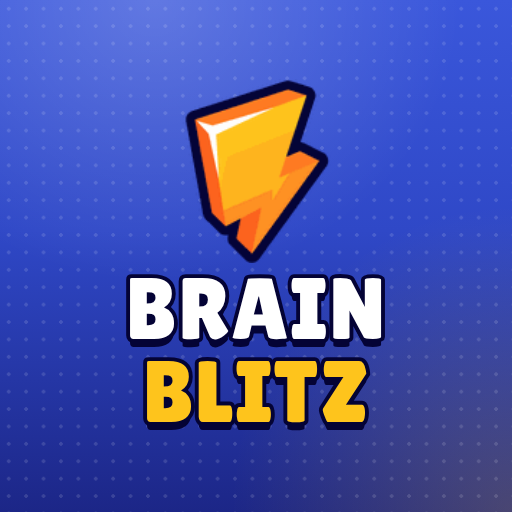
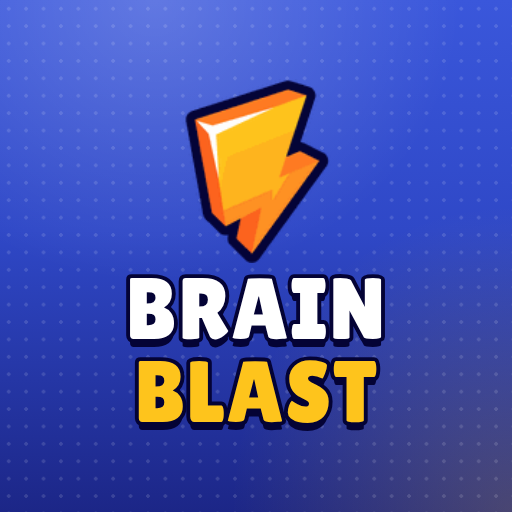
Rename the game to Brain Blast
Every player-facing name changes: the page title, the home logo, the
manifest name, the store icon and key art, the build zip and the CSV
export. "Mixed Blitz" becomes "Mixed Blast" and the results lines say
"Blast" too.

Kept on purpose:
- Save and settings keys (brainblitz.*) and the daily seed, so players
  keep their best scores and streaks, and today's daily stays the same.
- The manifest id, so an installed copy updates in place.
- The Block Blitz mode name, which reads well next to the new title and
  avoids sounding like the "Block Blast!" app.

Claude-Session: https://claude.ai/code/session_01RVk95fhvdWqoXzGU91aHdM

Changed region(s): [[0.25, 0.6875, 0.75, 0.8438]]

diff --git a/index.html b/index.html
@@ -3,9 +3,9 @@
 <head>
 <meta charset="UTF-8">
 <meta name="viewport" content="width=device-width, initial-scale=1.0, maximum-scale=1.0, user-scalable=no, viewport-fit=cover">
-<meta name="description" content="Brain Blitz — a fast-paced HTML5 trivia game across 10 categories.">
+<meta name="description" content="Brain Blast — a fast-paced HTML5 trivia game across 10 categories.">
 <meta name="theme-color" content="#2F48C7">
-<title>Brain Blitz</title>
+<title>Brain Blast</title>
 
 <!-- Added to a home screen, the launcher needs real artwork or the OS falls
      back to the first letter of the title. iOS reads apple-touch-icon and
@@ -15,8 +15,8 @@
 <link rel="icon" href="icons/favicon-16.png" sizes="16x16" type="image/png">
 <link rel="apple-touch-icon" href="icons/apple-touch-icon.png">
 <link rel="manifest" href="manifest.webmanifest">
-<meta name="application-name" content="Brain Blitz">
-<meta name="apple-mobile-web-app-title" content="Brain Blitz">
+<meta name="application-name" content="Brain Blast">
+<meta name="apple-mobile-web-app-title" content="Brain Blast">
 <meta name="apple-mobile-web-app-capable" content="yes">
 <meta name="mobile-web-app-capable" content="yes">
 <!-- The layout already pads for env(safe-area-inset-*), so the game can run
@@ -30,7 +30,7 @@
 
 <style>
 /* ============================================================
-   BRAIN BLITZ — Design tokens
+   BRAIN BLAST — Design tokens
    ============================================================ */
 :root{
   --navy:#0F172A;
@@ -168,7 +168,7 @@ button{font-family:inherit;color:inherit;border:0;background:none;cursor:pointer
   background-size:220% auto;-webkit-background-clip:text;background-clip:text;color:transparent;
   filter:drop-shadow(0 4px 20px rgba(139,92,246,.55));animation:shine 7s linear infinite;}
 @keyframes shine{to{background-position:220% center}}
-.logo .blitz{display:block;}
+.logo .blast{display:block;}
 .tagline{margin:10px 0 0;color:var(--muted);font-size:clamp(.9rem,3.6vw,1.05rem);font-weight:600;}
 .brain .ico{width:1.45em;height:1.45em;vertical-align:0;display:block}
 .brain{font-size:2.6rem;display:inline-block;animation:bob 3.2s ease-in-out infinite;filter:drop-shadow(0 0 18px rgba(34,211,238,.6));}
@@ -391,7 +391,7 @@ button{font-family:inherit;color:inherit;border:0;background:none;cursor:pointer
   .screen{max-width:860px}
   .logo-wrap{display:flex;align-items:center;justify-content:center;gap:18px;padding:0}
   .logo{font-size:2.1rem;text-align:left}
-  .logo .blitz{display:inline;margin-left:.3em}
+  .logo .blast{display:inline;margin-left:.3em}
   .brain{font-size:1.8rem}
   .tagline{margin:4px 0 0;font-size:.8rem}
   .best-chip{margin-top:8px;padding:6px 14px;font-size:.8rem}
@@ -561,7 +561,7 @@ body{
     3px 0 0 var(--ink),-3px 0 0 var(--ink),0 3px 0 var(--ink),0 -3px 0 var(--ink),
     2px 2px 0 var(--ink),-2px 2px 0 var(--ink),2px -2px 0 var(--ink),-2px -2px 0 var(--ink),
     0 7px 0 var(--ink);}
-.logo .blitz{color:var(--gold)}
+.logo .blast{color:var(--gold)}
 .brain{filter:drop-shadow(0 6px 0 rgba(4,3,53,.35))}
 .tagline{color:#E3E9FF;font-weight:800}
 
@@ -686,7 +686,7 @@ body{
 .logo-wrap{display:flex;align-items:center;justify-content:center;gap:10px;padding:16px 0 0}
 .brain{font-size:2.1rem}
 .logo{font-size:clamp(1.75rem,9vw,2.8rem);letter-spacing:.5px;white-space:nowrap}
-.logo .blitz{display:inline;margin-left:.22em}
+.logo .blast{display:inline;margin-left:.22em}
 .tagline{margin:8px 0 0;font-size:.9rem;text-align:center}
 /* The round-length picker reads first, centred; "Choose a category" then sits
    directly above the grid it labels. column-reverse swaps the two without
@@ -1013,7 +1013,7 @@ body.playing #bg .orb,body.playing #bg .spark{animation-play-state:paused}
 
     <div class="logo-wrap">
       <span class="brain" aria-hidden="true"><img class="ico" src="assets/icons/logo-bolt.png" alt="" draggable="false"></span>
-      <h1 class="logo">BRAIN<span class="blitz">BLITZ</span></h1>
+      <h1 class="logo">BRAIN<span class="blast">BLAST</span></h1>
     </div>
     <p class="tagline">How much do you really know?</p>
 
@@ -1197,7 +1197,7 @@ body.playing #bg .orb,body.playing #bg .spark{animation-play-state:paused}
 <script>
 "use strict";
 /* ================================================================
-   BRAIN BLITZ
+   BRAIN BLAST
    1. DATA      — categories + question bank
    2. AUDIO     — Web Audio API sound engine
    4. STATE     — game state + helpers
@@ -3524,6 +3524,8 @@ const state = {
    after every answer.
    ------------------------------------------------------------------------ */
 const SAVE_KEY = "brainblitz.save";     // single blob, mirrors the cloud payload
+// Storage keys and the daily seed keep the game's original name (Brain Blitz):
+// renaming them would wipe players' saved progress and change today's daily.
 const SAVE_DEBOUNCE_MS = 800;
 
 const progress = {
@@ -3873,7 +3875,7 @@ const UI = {
       return b;
     };
 
-    grid.appendChild(makeBtn("mixed", "cat-mixed", "Mixed Blitz", label(QUESTIONS), true));
+    grid.appendChild(makeBtn("mixed", "cat-mixed", "Mixed Blast", label(QUESTIONS), true));
     Object.keys(CATEGORIES).forEach(key => {
       const c = CATEGORIES[key];
       grid.appendChild(makeBtn(key, c.icon, c.name, label(questionsIn(key))));
@@ -4312,12 +4314,12 @@ const UI = {
     const acc = Math.round((state.correctCount / total) * 100);
 
     const tiers = [
-      { min: 100, icon: "trophy", title: "Flawless Blitz!", msg: "A perfect round. You did not miss a single question." },
+      { min: 100, icon: "trophy", title: "Flawless Blast!", msg: "A perfect round. You did not miss a single question." },
       { min: 80,  icon: "tier-crown", title: "Brilliant!",      msg: "Outstanding knowledge — you are in the top tier." },
       { min: 60,  icon: "tier-star", title: "Well Played!",    msg: "Solid round. A little more speed and you'll be unstoppable." },
       { min: 40,  icon: "tier-up", title: "Getting There!",  msg: "Halfway there. One more round should push you higher." },
       { min: 20,  icon: "tier-book", title: "Keep Training!",  msg: "Every round teaches you something new. Try again!" },
-      { min: 0,   icon: "tier-clover", title: "Fresh Start",     msg: "Everyone starts somewhere. Give it another blitz!" }
+      { min: 0,   icon: "tier-clover", title: "Fresh Start",     msg: "Everyone starts somewhere. Give it another blast!" }
     ];
     const tier = tiers.find(t => acc >= t.min);
 

diff --git a/tools/keyart.html b/tools/keyart.html
@@ -2,7 +2,7 @@
 <html lang="en">
 <head>
 <meta charset="UTF-8">
-<title>Brain Blitz key art</title>
+<title>Brain Blast key art</title>
 <!-- Rendered by tools/make-art.js, which injects the game's own @font-face
      rules (Lilita One and Nunito, embedded in index.html) before capturing.
      Icons are the in-game ones from assets/icons/. -->
@@ -27,7 +27,7 @@
   .title{font-family:"Lilita One","Nunito",sans-serif;font-weight:400;line-height:.95;letter-spacing:.02em;
     color:var(--white);-webkit-text-stroke:.09em var(--ink);paint-order:stroke fill;
     text-shadow:0 .09em 0 var(--ink)}
-  .title .blitz{color:var(--gold)}
+  .title .blast{color:var(--gold)}
   .tag{font-weight:900;color:var(--soft);text-shadow:0 .06em 0 rgba(4,3,53,.45)}
 
   .chips{display:flex;flex-wrap:wrap;gap:.45em}
@@ -62,7 +62,7 @@
   body[data-variant="square"] .head{display:flex;flex-direction:column;align-items:center;gap:1vh}
   body[data-variant="square"] .bolt{height:36vh}
   body[data-variant="square"] .title{font-size:17vh;text-align:center}
-  body[data-variant="square"] .title .blitz{display:block}
+  body[data-variant="square"] .title .blast{display:block}
   body[data-variant="square"] .tag,
   body[data-variant="square"] .chips,
   body[data-variant="square"] .blocks{display:none}
@@ -73,7 +73,7 @@
     <div class="left">
       <div class="head">
         <img class="bolt" src="../assets/icons/logo-bolt.png" alt="">
-        <h1 class="title">BRAIN <span class="blitz">BLITZ</span></h1>
+        <h1 class="title">BRAIN <span class="blast">BLAST</span></h1>
       </div>
       <p class="tag">How much do you really know?</p>
       <div class="chips">

diff --git a/tests/icons.test.js b/tests/icons.test.js
@@ -89,8 +89,8 @@ function describe(page, href) {
   t.check(rel("icon").some((l) => l.sizes === "32x32") && rel("icon").some((l) => l.sizes === "16x16"),
     "raster favicons cover 16 and 32 px");
 
-  t.check(head.metas["apple-mobile-web-app-title"] === "Brain Blitz",
-    'the home-screen label is set to "Brain Blitz", not the document title');
+  t.check(head.metas["apple-mobile-web-app-title"] === "Brain Blast",
+    'the home-screen label is set to "Brain Blast", not the document title');
   t.check(head.metas["apple-mobile-web-app-capable"] === "yes" &&
           head.metas["mobile-web-app-capable"] === "yes",
     "launching from the home screen opens standalone on both platforms");
@@ -110,7 +110,7 @@ function describe(page, href) {
     t.check(false, "the manifest is valid JSON: " + e.message);
   }
 
-  t.check(manifest.name === "Brain Blitz" && manifest.short_name === "Brain Blitz",
+  t.check(manifest.name === "Brain Blast" && manifest.short_name === "Brain Blast",
     "the manifest names the app on both the install prompt and the launcher");
   t.check(manifest.display === "standalone",
     "the manifest asks for a standalone window, not a browser tab");

diff --git a/tools/logo.js b/tools/logo.js
@@ -1,5 +1,5 @@
 /**
- * The Brain Blitz app mark, as SVG.
+ * The Brain Blast app mark, as SVG.
  *
  * This is deliberately NOT the store key art (art/icon-512.png): that one is a
  * listing tile with a wordmark, and at home-screen size — around 48 CSS pixels —
@@ -92,7 +92,7 @@ function build(options = {}) {
     ? `<g transform="translate(256 256) scale(${scale * 1.5}) translate(-256 -256) translate(-10 -10)">${bolt}</g>`
     : `${open}${brain}${bolt}</g>`;
 
-  return `<svg xmlns="http://www.w3.org/2000/svg" viewBox="0 0 512 512" role="img" aria-label="Brain Blitz">
+  return `<svg xmlns="http://www.w3.org/2000/svg" viewBox="0 0 512 512" role="img" aria-label="Brain Blast">
 <defs>
 <linearGradient id="bb-bg" x1="0" y1="0" x2="0" y2="1">
 <stop offset="0" stop-color="#3A57DB"/><stop offset=".5" stop-color="#2F48C7"/><stop offset="1" stop-color="#1C2687"/>

diff --git a/tools/export-csv.js b/tools/export-csv.js
@@ -1,7 +1,7 @@
 /**
  * Exports the question bank to CSV for review.
  *
- *   node tools/export-csv.js            -> dist/brain-blitz-questions.csv
+ *   node tools/export-csv.js            -> dist/brain-blast-questions.csv
  *   node tools/export-csv.js out.csv    -> a path of your choosing
  *
  * Columns are ordered for fact-checking: the correct answer sits next to the
@@ -42,7 +42,7 @@ rows.forEach((r, i) => {
                r.explanation, "", "" ].map(quote).join(","));
 });
 
-const out = process.argv[2] || path.join(ROOT, "dist", "brain-blitz-questions.csv");
+const out = process.argv[2] || path.join(ROOT, "dist", "brain-blast-questions.csv");
 fs.mkdirSync(path.dirname(out), { recursive: true });
 // A BOM makes Excel open UTF-8 correctly on Windows.
 fs.writeFileSync(out, "\uFEFF" + lines.join("\r\n") + "\r\n", "utf8");

diff --git a/tests/gameplay.test.js b/tests/gameplay.test.js
@@ -14,7 +14,7 @@ const ck = (condition, message) => suite.check(condition, message);
 
   // ---- HOME ----
   ck(await page.locator('#home').isVisible(), 'home screen visible');
-  ck((await page.locator('.logo').innerText()).replace(/\s/g,'') === 'BRAINBLITZ', 'logo text');
+  ck((await page.locator('.logo').innerText()).replace(/\s/g,'') === 'BRAINBLAST', 'logo text');
   ck(await page.locator('#catGrid .cat').count() === 11, 'category grid has mixed + 10 categories');
   ck((await page.locator('#bestScore').innerText()) === '0', 'best score starts at 0');
 

diff --git a/tools/build.js b/tools/build.js
@@ -14,7 +14,7 @@ const { execFileSync } = require("child_process");
 
 const ROOT = path.resolve(__dirname, "..");
 const DIST = path.join(ROOT, "dist");
-const ZIP = path.join(DIST, "brain-blitz-playable.zip");
+const ZIP = path.join(DIST, "brain-blast-playable.zip");
 
 const MiB = 1024 * 1024;
 const INITIAL_CAP = 30 * MiB;     // hard: the game will not launch above this

diff --git a/docs/SUBMISSION.md b/docs/SUBMISSION.md
@@ -1,6 +1,6 @@
 # Submission pack
 
-Everything needed to submit Brain Blitz as a YouTube Playable, minus the parts
+Everything needed to submit Brain Blast as a YouTube Playable, minus the parts
 that require portal access.
 
 > **Unverified specs.** `developers.google.com` is blocked from the environment
@@ -17,7 +17,7 @@ that require portal access.
 ```bash
 npm ci
 npx playwright install chromium
-npm run build          # -> dist/brain-blitz-playable.zip
+npm run build          # -> dist/brain-blast-playable.zip
 ```
 
 All the game code, data, styling, fonts and music are in `index.html` at the
@@ -39,7 +39,7 @@ built file and playing a round, so what you upload is what was tested.
 
 ## 2. Store metadata
 
-**Title** — `Brain Blitz` (11 characters)
+**Title** — `Brain Blast` (11 characters)
 
 **Short description**, in ascending length so one fits the limit **[verify]**:
 
@@ -53,12 +53,12 @@ built file and playing a round, so what you upload is what was tested.
 
 > How much do you really know?
 >
-> Brain Blitz is fast-fire trivia across ten categories — general knowledge,
+> Brain Blast is fast-fire trivia across ten categories — general knowledge,
 > science, history, geography, movies, sports, animals, technology, food and
 > space. You get fifteen seconds a question, and the quicker you answer the more
 > you score, so hesitating is expensive.
 >
-> Pick a category or take the Mixed Blitz, which draws from all ten at once, and
+> Pick a category or take the Mixed Blast, which draws from all ten at once, and
 > choose how long you want to play: 5, 10, 20 or 30 questions. Every round pulls
 > questions you have not seen yet, so playing again gives you new ones rather
 > than the same set in a different order.
@@ -183,7 +183,7 @@ answers below; adjust the ones about you.
 
 | Field | Answer |
 |---|---|
-| Game title | Brain Blitz |
+| Game title | Brain Blast |
 | Genre | Trivia / quiz, casual |
 | Playable URL | https://xdsliperz1830-eng.github.io/TriviaMania/ |
 | Source | https://github.com/xdsliperz1830-eng/TriviaMania |
@@ -201,7 +201,7 @@ answers below; adjust the ones about you.
 
 **One-paragraph pitch, if the form wants one**
 
-> Brain Blitz is a fast-fire trivia game: ten categories, fifteen seconds a
+> Brain Blast is a fast-fire trivia game: ten categories, fifteen seconds a
 > question, and more points the quicker you answer. Alongside the quiz there
 > is a daily challenge with a day streak, and Block Blitz, a puzzle mode where
 > right answers blast matching blocks. It is one 385 KB HTML file plus small

diff --git a/README.md b/README.md
@@ -1,4 +1,4 @@
-# Brain Blitz
+# Brain Blast
 
 A fast-paced HTML5 trivia game built for YouTube Playables. Everything — markup,
 styles, game logic, question bank and sound engine — lives in a single
@@ -64,7 +64,7 @@ sits beside the board instead of over it.
   the home screen. The choice is remembered between sessions.
 - 15 seconds per question, drawn from a bank of **900 questions** — 90 in each
   of the 10 categories.
-- Pick a single category or **Mixed Blitz**, which spreads the round evenly over
+- Pick a single category or **Mixed Blast**, which spreads the round evenly over
   the categories: 10 questions means one from each, 20 means two, and a length
   that does not divide evenly gives the remainder to whichever categories come
   up first in the shuffle.
@@ -72,7 +72,7 @@ sits beside the board instead of over it.
   yet, so playing the same category three times in a row at 10 questions gives
   30 different questions. Only once a category is used up does the cycle restart
   and mix in earlier questions. Progress is stored in `localStorage`, so it survives a
-  reload, and category play and Mixed Blitz share the same history.
+  reload, and category play and Mixed Blast share the same history.
 - Category cards show what is left — `90 questions`, then `80 new of 90`, then
   `all 90 seen`.
 - Answer choices are reshuffled every round, so the correct answer never sits
@@ -127,10 +127,10 @@ and pull request.
 ## Building for submission
 
 ```bash
-npm run build      # -> dist/brain-blitz-playable.zip (545 KB)
+npm run build      # -> dist/brain-blast-playable.zip (545 KB)
 npm run art        # -> art/ store key art and listing tiles
 npm run icons      # -> icons/ launcher icons and favicons
-npm run questions  # -> dist/brain-blitz-questions.csv, the whole bank for review
+npm run questions  # -> dist/brain-blast-questions.csv, the whole bank for review
 ```
 
 The build checks the bundle against every Playables size cap, then launches the

diff --git a/docs/PLAYABLES_PLAN.md b/docs/PLAYABLES_PLAN.md
@@ -1,4 +1,4 @@
-# Brain Blitz → YouTube Playable
+# Brain Blast (formerly Brain Blitz) → YouTube Playable
 
 A review of the game as it stands today, and the plan to get it certified as a
 YouTube Playable.
@@ -17,7 +17,7 @@ YouTube Playable.
 
 Measured against the published Playables limits:
 
-| Limit | Budget | Brain Blitz | Headroom |
+| Limit | Budget | Brain Blast | Headroom |
 |---|---|---|---|
 | Initial payload | 30 MiB (15 MiB recommended) | **114 KB** | 0.4% of the hard cap |
 | Total bundle | 250 MiB | 114 KB | negligible |

diff --git a/assets/icons/CREDITS.md b/assets/icons/CREDITS.md
@@ -10,7 +10,7 @@ committed to this repository and should not be added to it.
 
 | File | Source icon | Used for |
 |---|---|---|
-| `cat-mixed.png` | Dice | Mixed Blitz |
+| `cat-mixed.png` | Dice | Mixed Blast |
 | `cat-general.png` | Question Mark | General Knowledge |
 | `cat-science.png` | Blue Potion | Science |
 | `cat-history.png` | Scroll | History |
